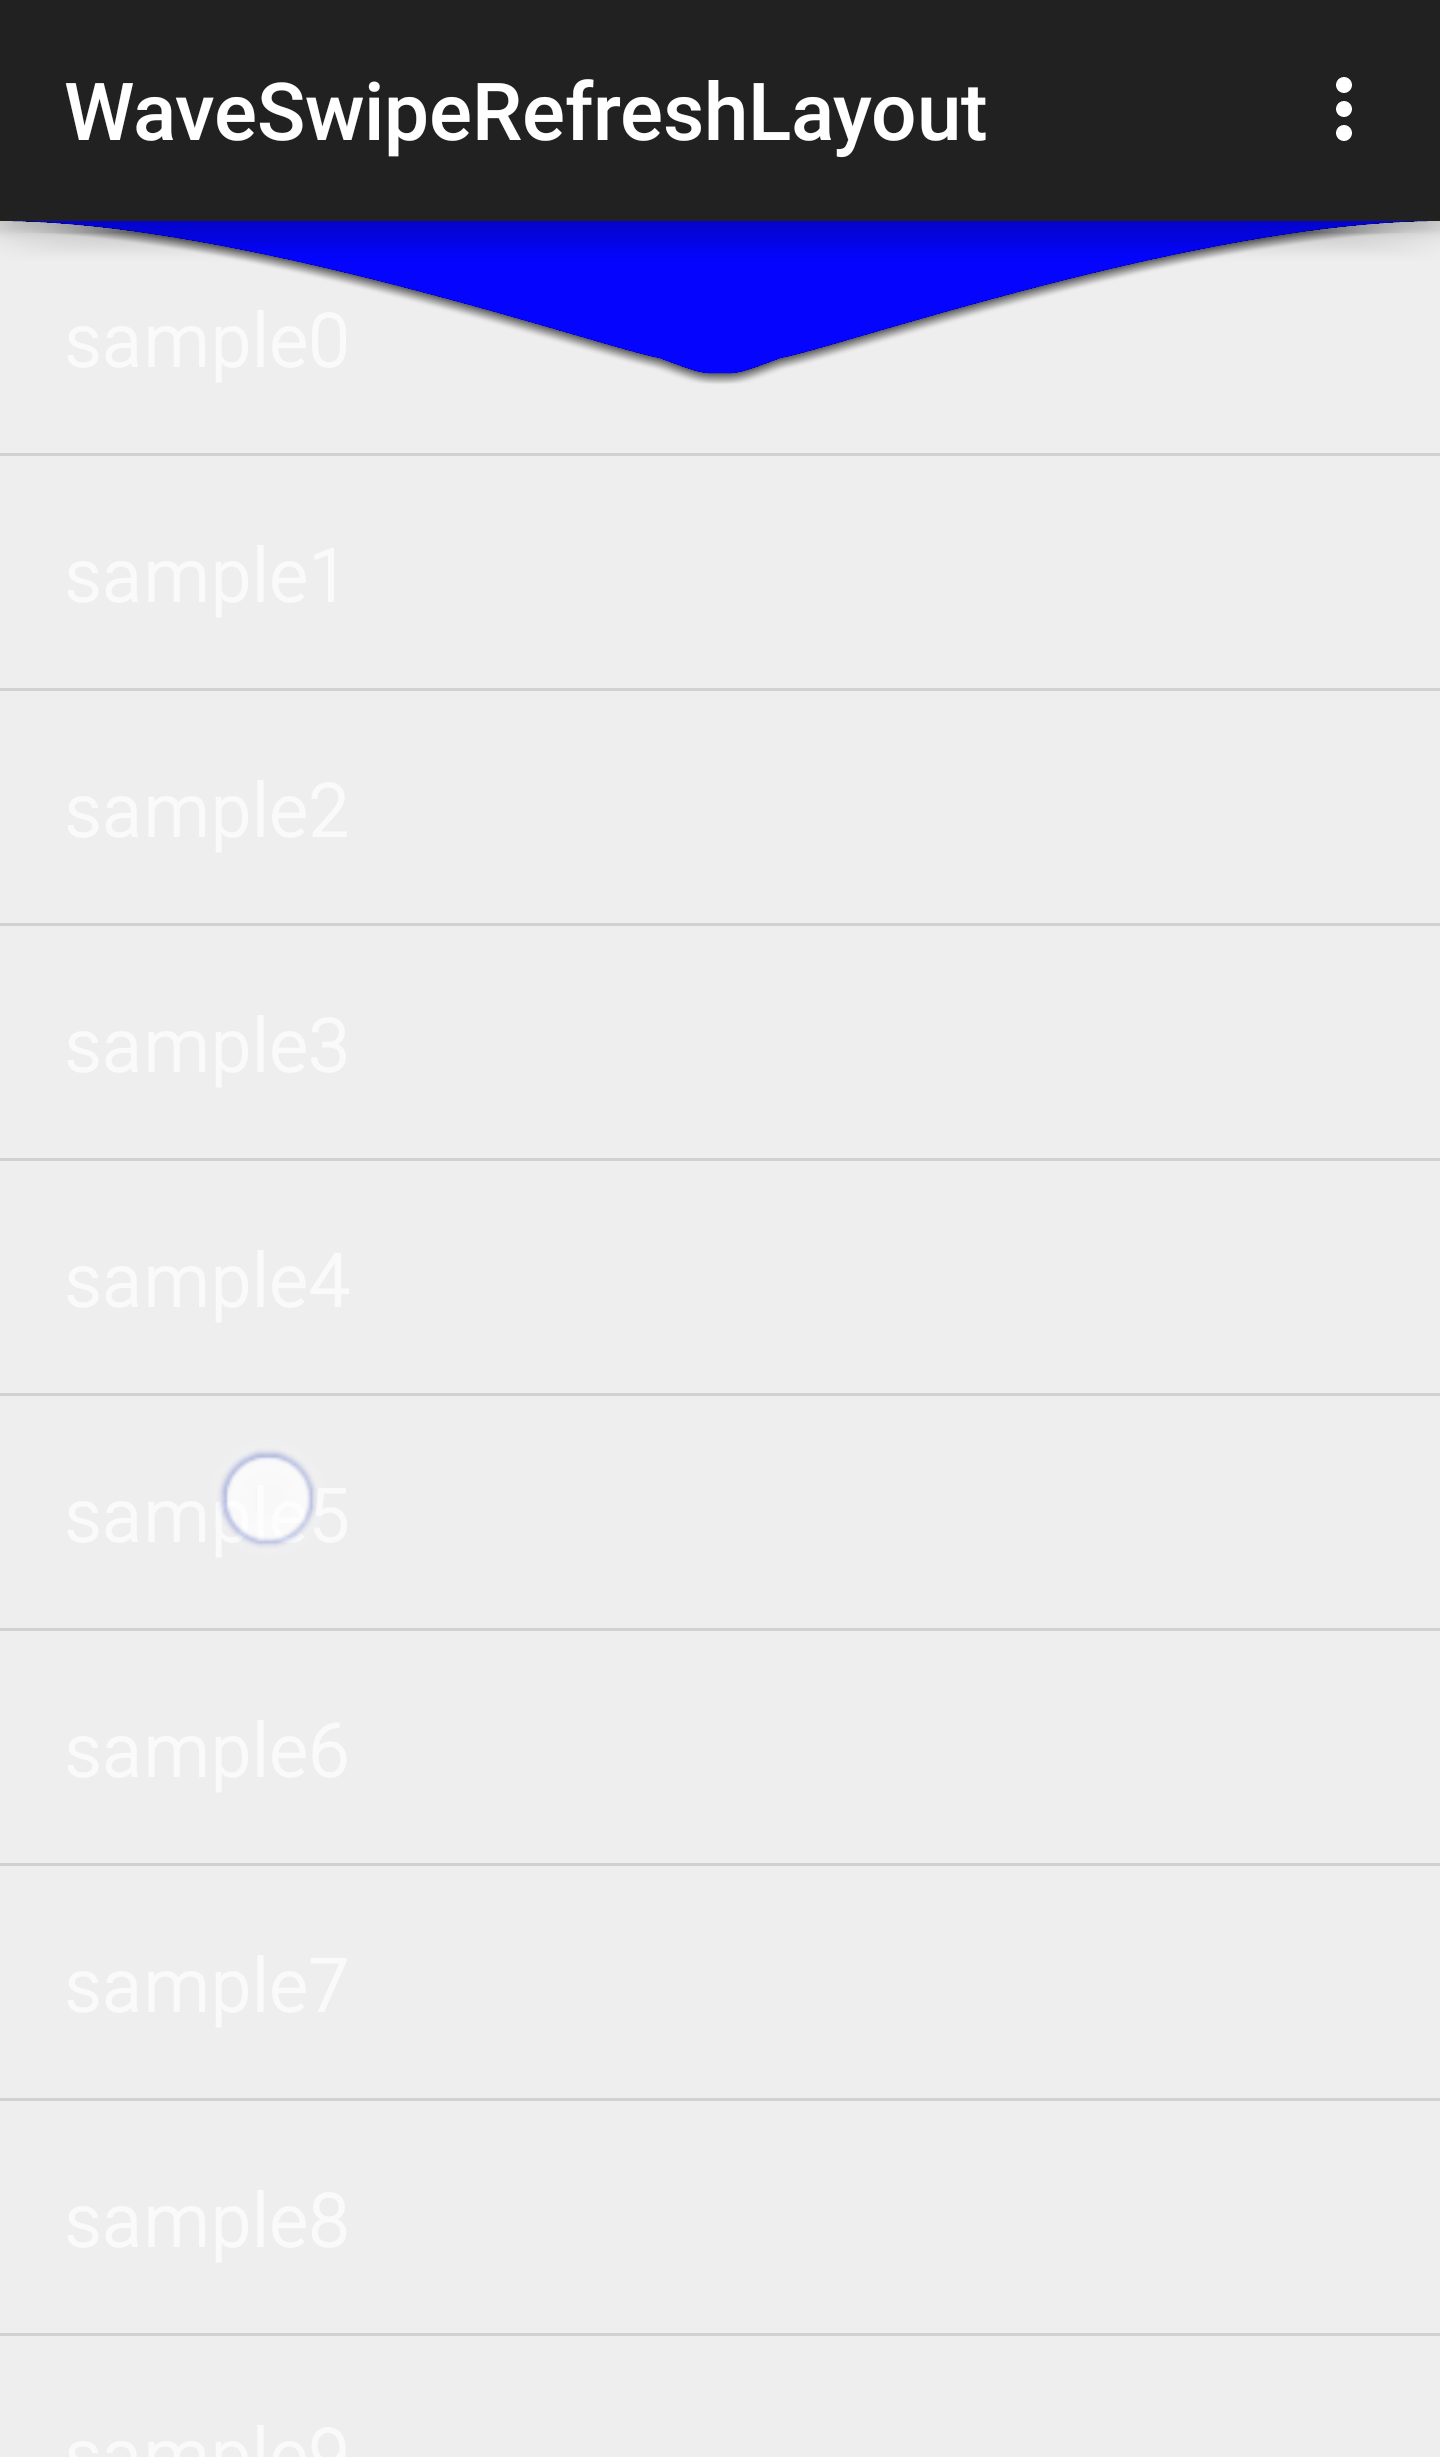
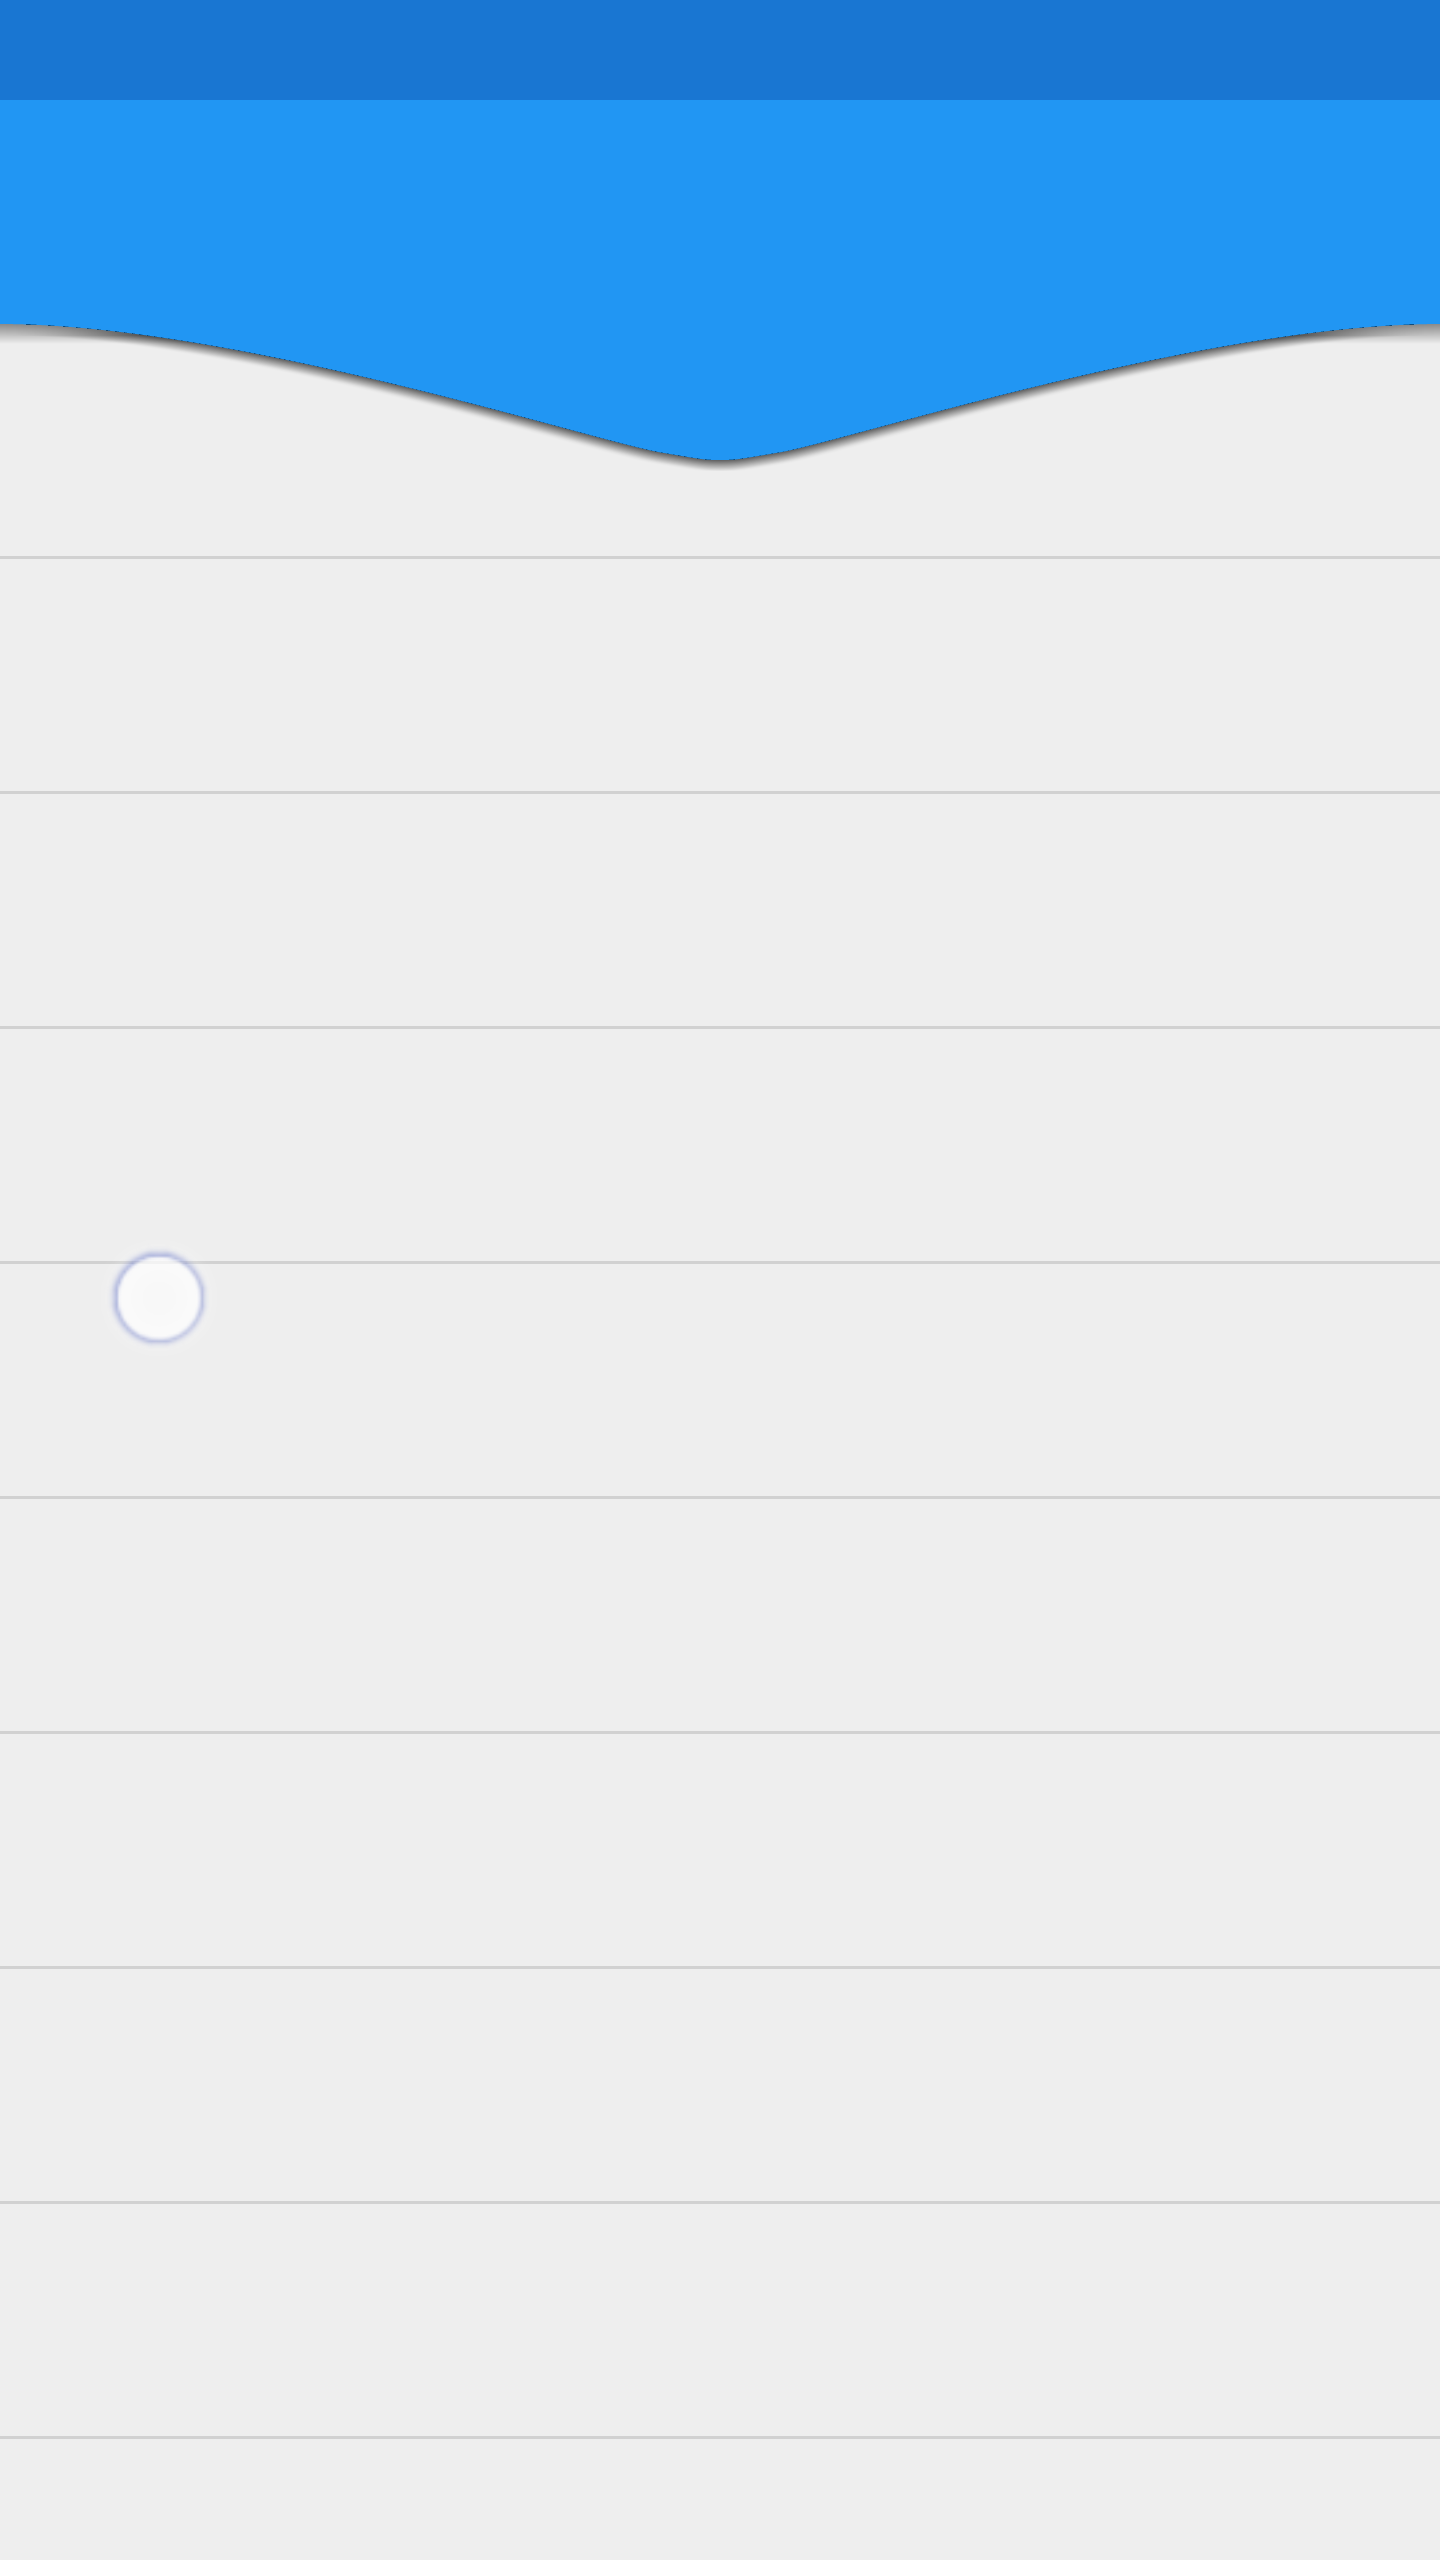
Update sample

diff --git a/sample/src/main/java/jp/co/recruit_lifestyle/sample/MainActivity.java b/sample/src/main/java/jp/co/recruit_lifestyle/sample/MainActivity.java
@@ -6,6 +6,8 @@ import android.os.Handler;
 import android.support.v7.app.AppCompatActivity;
 import android.view.Menu;
 import android.view.MenuItem;
+import android.view.Window;
+import android.view.WindowManager;
 import android.widget.ArrayAdapter;
 import android.widget.ListView;
 import java.util.ArrayList;
@@ -20,9 +22,11 @@ public class MainActivity extends AppCompatActivity implements WaveSwipeRefreshL
 
   @Override
   protected void onCreate(Bundle savedInstanceState) {
+    requestWindowFeature(Window.FEATURE_NO_TITLE);
+    getWindow().addFlags(WindowManager.LayoutParams.FLAG_FULLSCREEN);
     super.onCreate(savedInstanceState);
-    setContentView(R.layout.activity_main);
 
+    setContentView(R.layout.activity_main);
     initView();
     setSampleData();
   }
@@ -39,7 +43,7 @@ public class MainActivity extends AppCompatActivity implements WaveSwipeRefreshL
   private void setSampleData() {
     ArrayList<String> sampleArrayStr = new ArrayList<>();
     for (int i = 0; i < 60; i++) {
-      sampleArrayStr.add("sample" + i);
+      sampleArrayStr.add("" );
     }
     ArrayAdapter<String> adapter = new ArrayAdapter<>(getApplicationContext(), android.R.layout.simple_list_item_1, sampleArrayStr);
     mListview.setAdapter(adapter);
@@ -52,7 +56,7 @@ public class MainActivity extends AppCompatActivity implements WaveSwipeRefreshL
         // 更新が終了したらインジケータ非表示
         mWaveSwipeRefreshLayout.setRefreshing(false);
       }
-    }, 5000);
+    }, 3000);
   }
 
   @Override

diff --git a/library/src/main/java/jp/co/recruit_lifestyle/android/widget/WaveSwipeRefreshLayout.java b/library/src/main/java/jp/co/recruit_lifestyle/android/widget/WaveSwipeRefreshLayout.java
@@ -180,6 +180,7 @@ public class WaveSwipeRefreshLayout extends ViewGroup
     mTarget.measure(
         makeMeasureSpecExactly(getMeasuredWidth() - (getPaddingLeft() + getPaddingRight())),
         makeMeasureSpecExactly(getMeasuredHeight() - (getPaddingTop() + getPaddingBottom())));
+    mWaveView.measure(widthMeasureSpec, heightMeasureSpec);
 
     mCircleView.measure();
   }
@@ -203,7 +204,7 @@ public class WaveSwipeRefreshLayout extends ViewGroup
     mCircleView.layout((thisWidth - circleWidth) / 2, -circleHeight, (thisWidth + circleWidth) / 2,
         0);
 
-    mWaveView.layout(left, top, right, bottom);
+    mWaveView.layout(getPaddingLeft(), getPaddingTop(), childRight, childBottom);
   }
 
   @Override public boolean onPreDraw() {

diff --git a/library/src/main/java/jp/co/recruit_lifestyle/android/widget/WaveView.java b/library/src/main/java/jp/co/recruit_lifestyle/android/widget/WaveView.java
@@ -20,7 +20,6 @@ import android.animation.Animator;
 import android.animation.ValueAnimator;
 import android.content.Context;
 import android.graphics.Canvas;
-import android.graphics.Color;
 import android.graphics.Paint;
 import android.graphics.Path;
 import android.graphics.RectF;
@@ -345,7 +344,7 @@ public class WaveView extends View implements ViewTreeObserver.OnPreDrawListener
 
   private void setUpPaint() {
     mPaint = new Paint();
-    mPaint.setColor(Color.BLUE);
+    mPaint.setColor(0xff2196F3);
     mPaint.setAntiAlias(true);
     mPaint.setStyle(Paint.Style.FILL);
 
